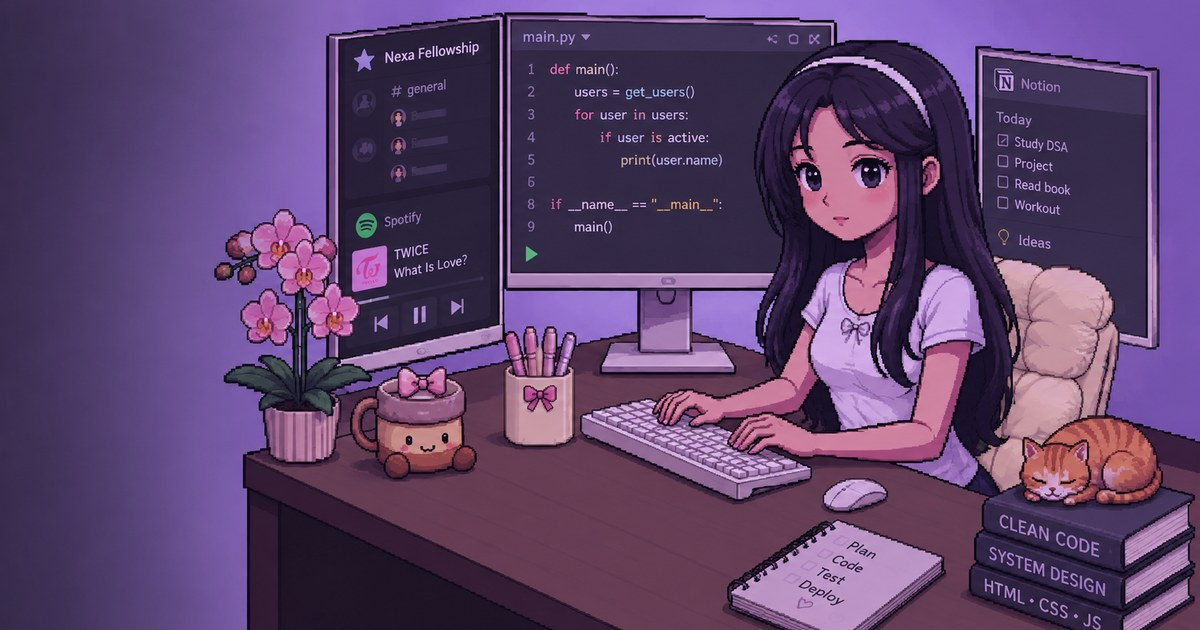
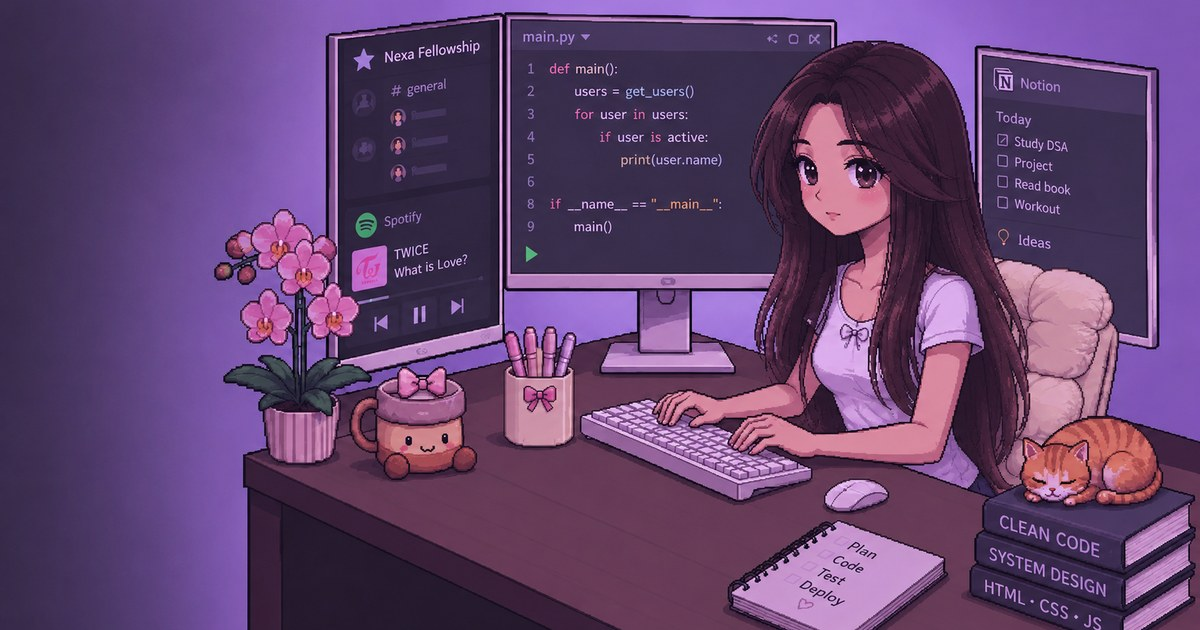
Update hero illustration

diff --git a/src/data/site.js b/src/data/site.js
@@ -20,7 +20,7 @@ export const hero = {
   headline: ["Hello! I'm", 'Gözde'],
   cta: { label: 'My Works', href: '#projects' },
   text: 'I build products and keep sharpening my skills in AI, backend development and data science.',
-  image: 'images/hero.webp', // relative to /public
+  image: 'images/hero-illustration.webp', // relative to /public
   imageAlt:
     'Pixel-art illustration of Gözde coding at a cozy desk with three monitors, a plant, books and a sleeping orange cat',
 }
